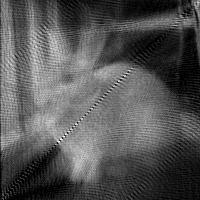
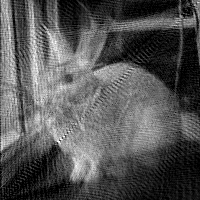
Reprise de simu schéma accès

diff --git a/src/simu_schema_acces.py b/src/simu_schema_acces.py
@@ -11,7 +11,7 @@ def main():
     N_THETA, N_RHO = 80, 80
     I, L, H = image_depuis_fichier("exemples/slp/slp_200.png")
     cst = Donnees(L, H, N_THETA, N_RHO)
-    chemin = "simulations/varier_schema_acces/slp/"
+    chemin = "simulations/varier_schema_acces_bis/slp/"
     nom_fichier = "slp_200_1e6_{}_{}_uni_.png".format(N_THETA, N_RHO)
 
     # Initialisation
@@ -22,17 +22,24 @@ def main():
 
     # Schéma d'accès "successif"
     f0 = zeros(L * H)
-    f = ART(f0, A, R, int(1e6), False, cst)
+    f = ART(f0, A, R, int(1e6), 0, cst)
     enregistrer_image(f, L, H, chemin + "succ_" + nom_fichier)
     ecarts["succ"] = (ecart_moyen(I, f, L * H), ecart_norme_euc(I, f))
     print("Image \"successive\" terminée")
 
     # Schéma d'accès aléatoire
     f0 = zeros(L * H)
-    f = ART(f0, A, R, int(1e6), True, cst)
+    f = ART(f0, A, R, int(1e6), 1, cst)
     enregistrer_image(f, L, H, chemin + "alea_" + nom_fichier)
     ecarts["alea"] = (ecart_moyen(I, f, L * H), ecart_norme_euc(I, f))
     print("Image \"aléatoire\" terminée")
+
+    # Schéma d'accès aléatoire optimisé
+    f0 = zeros(L * H)
+    f = ART(f0, A, R, int(1e6), 2, cst)
+    enregistrer_image(f, L, H, chemin + "alea_opti_" + nom_fichier)
+    ecarts["alea_opti"] = (ecart_moyen(I, f, L * H), ecart_norme_euc(I, f))
+    print("Image \"aléatoire optimisée\" terminée")
 
     with open(chemin + "ecarts_200.txt", "w") as f:
         s = ""
